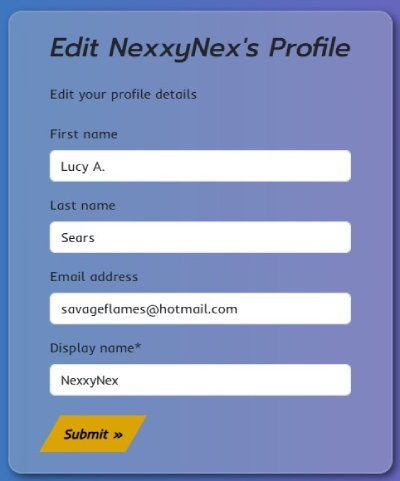
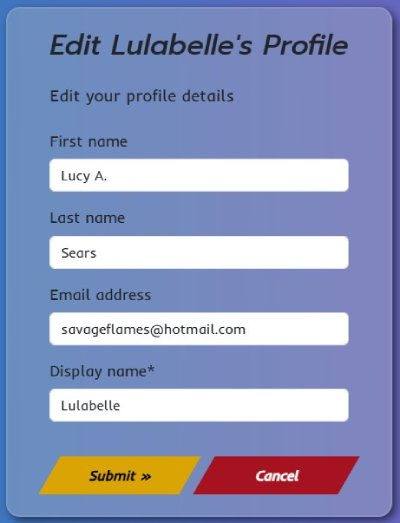
Updated some screenshots and the profile form features area of the readme to account for changes made based on user feedback.

Changed region(s): [[0.0, 0.0, 0.99, 0.9979], [0.12, 0.0624, 0.9, 0.1247], [0.12, 0.1559, 0.6, 0.2183]]

diff --git a/legends/settings.py b/legends/settings.py
@@ -30,7 +30,7 @@ SECRET_KEY = os.environ.get("SECRET_KEY")
 STRIPE_SECRET_KEY = os.environ.get("STRIPE_SECRET_KEY")
 
 # SECURITY WARNING: don't run with debug turned on in production!
-DEBUG = False
+DEBUG = True
 
 ALLOWED_HOSTS = ['.herokuapp.com',
                  '127.0.0.1',

diff --git a/README.md b/README.md
@@ -450,12 +450,18 @@ As per the [Card Features](#cards) section, the cards also flip on hover to prov
 ![Binder page](./docs/screenshots/binder-flip.jpg)
 
 ### *Profile Page*
-The profile page features a disabled version of the edit-profile form, with an edit button that takes the user to an editable version of the form which allows them to change their first name, last name, email address, and display name. Display name is stored on a custom model and made accessible through the User model via a shared property. The admin is customised so that the user profile information appears inline to the User admin page and both can be edited at the same time. 
+The profile page features a disabled version of the edit-profile form, with an edit button that takes the user to an editable version of the form, and a change password button that goes through to the change password form.
 
-*Note:* A custom signup form has been created and registered in settings.py, to include the display name property when a user registers with the site, allowing a user to create a UserProfile record in the database that they can edit later on.
+* The Edit Profile form allows users to change their first name, last name, email address, and display name. 
+* Display name is stored on a custom model and made accessible through the User model via a shared property. The admin is customised so that the user profile information appears inline to the User admin page and both can be edited at the same time by admins. 
+* A custom signup form has been created and registered in settings.py, to include the display name property when a user registers with the site, allowing a user to create a UserProfile record in the database that they can edit later on.
+
+Edit Profile and Change Password forms both feature cancel buttons that take the user back one step in the browser navigation history if they change their mind and don't want to make any edits to anything.
+
 
 ![Custom signup form](./docs/screenshots/signup-form.jpg)  
 ![View profile page](./docs/screenshots/view-profile.jpg)
+![Change password form](./docs/screenshots/change-password.jpg)
 ![Edit profile page](./docs/screenshots/edit-profile.jpg)
 
 ### Admin
